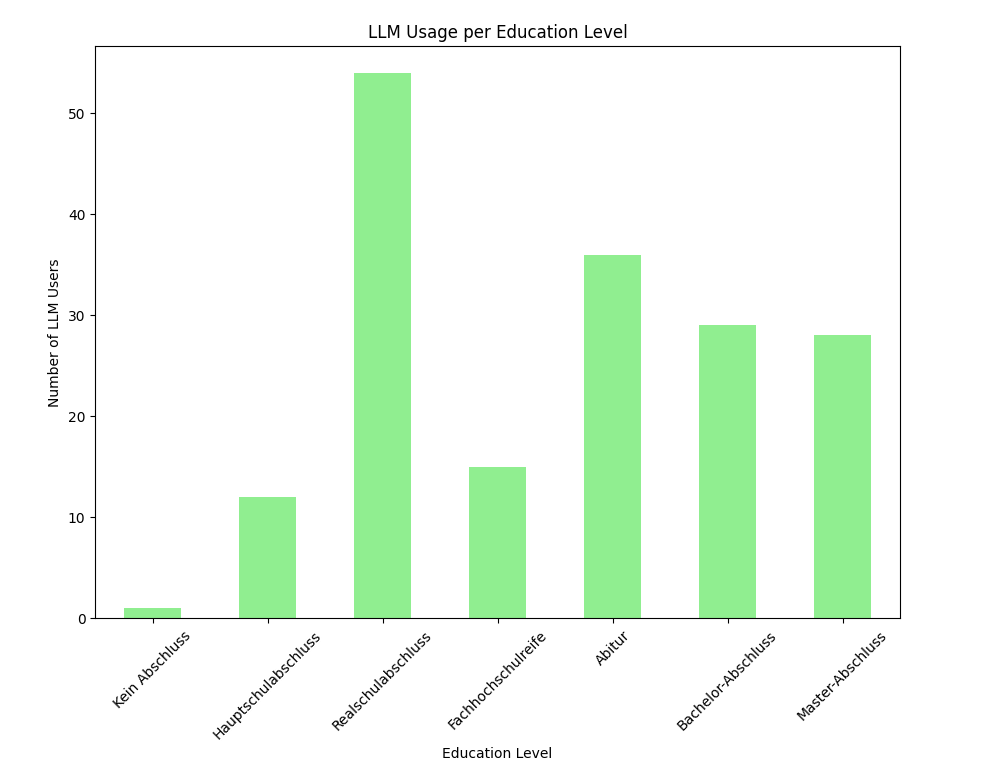
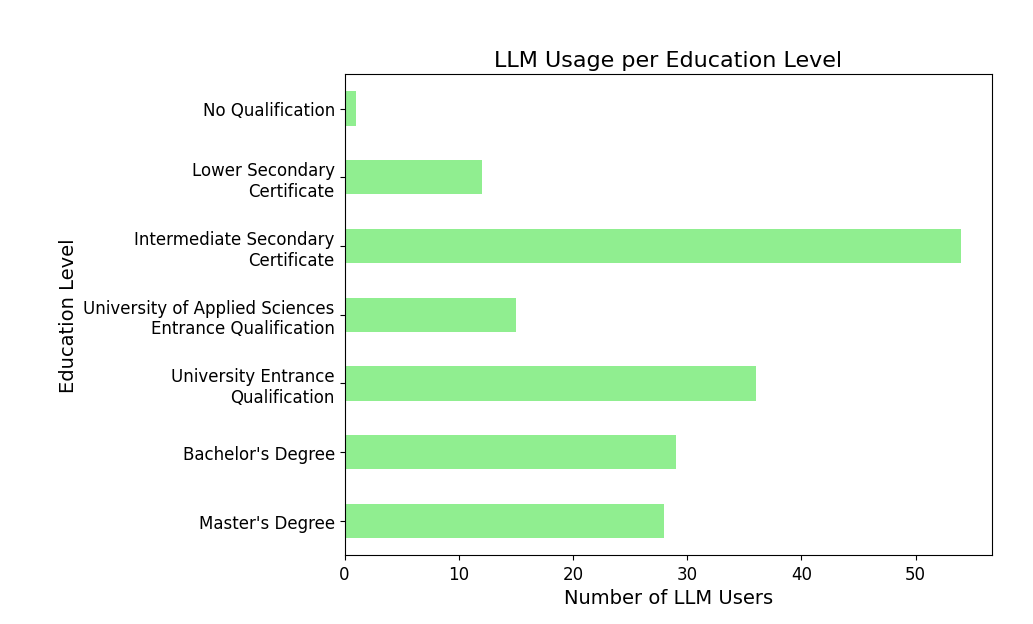
update label size and education diagram orientation

diff --git a/diagrams/education_llm_usage.py b/diagrams/education_llm_usage.py
@@ -12,20 +12,27 @@ df = pd.read_sql("SELECT * FROM data_project", conn)
 # --- FILTER ---
 df = df[(df['used_llm'] != 0) & (df['quota'] != 0)]
 
-# --- PLOT: LLM usage per schooling ---
-school_counts = df.groupby('schooling')['used_llm'].sum()
-
-schooling_order = ["Kein Abschluss", "Hauptschulabschluss", "Realschulabschluss", "Fachhochschulreife", "Abitur", "Bachelor-Abschluss", "Master-Abschluss"]
-
-school_counts = school_counts.reindex(schooling_order)
-school_counts.plot(kind='bar', figsize=(10,6), color='lightgreen')
-plt.xlabel("Education Level")
-plt.ylabel("Number of LLM Users")
-plt.title("LLM Usage per Education Level")
-plt.xticks(rotation=45)
-plt.show()
-
 # --- LABEL MAPPINGS ---
+schooling_order = [
+    "Kein Abschluss",
+    "Hauptschulabschluss",
+    "Realschulabschluss",
+    "Fachhochschulreife",
+    "Abitur",
+    "Bachelor-Abschluss",
+    "Master-Abschluss"
+]
+
+schooling_labels = {
+    "Kein Abschluss":        "No Qualification",
+    "Hauptschulabschluss":   "Lower Secondary\nCertificate",
+    "Realschulabschluss":    "Intermediate Secondary\nCertificate",
+    "Fachhochschulreife":    "University of Applied Sciences\nEntrance Qualification",
+    "Abitur":                "University Entrance\nQualification",
+    "Bachelor-Abschluss":    "Bachelor's Degree",
+    "Master-Abschluss":      "Master's Degree"
+}
+
 employment_role_labels = {
     "employment_role_ceo": "CEO / Executive",
     "employment_role_management": "Management / Executive",
@@ -73,7 +80,21 @@ sector_labels = {
     "sector_other": "Other"
 }
 
-# --- GET EMPLOYMENT ROLE COLUMNS ---
+# --- PLOT: LLM usage per schooling ---
+school_counts = df.groupby('schooling')['used_llm'].sum()
+school_counts = school_counts.reindex(schooling_order)
+school_counts.index = school_counts.index.map(lambda x: schooling_labels.get(x, x))
+
+school_counts.plot(kind='barh', figsize=(12,8), color='lightgreen')
+plt.ylabel("Education Level", fontsize=14)
+plt.xlabel("Number of LLM Users", fontsize=14)
+plt.title("LLM Usage per Education Level", fontsize=16)
+plt.xticks(fontsize=12)
+plt.yticks(fontsize=12)
+plt.gca().invert_yaxis()
+plt.show()
+
+# --- PLOT: LLM usage by employment role ---
 roles = [col for col in df.columns if col.startswith('employment_role_')]
 for col in roles:
     df[col] = pd.to_numeric(df[col], errors='coerce').fillna(0).astype(int)
@@ -89,15 +110,18 @@ plt.yticks(fontsize=12)
 plt.gca().invert_yaxis()
 plt.show()
 
-# --- GET SECTOR COLUMNS ---
+# --- PLOT: LLM usage by sector ---
 sectors = [col for col in df.columns if col.startswith('sector_')]
 for col in sectors:
     df[col] = pd.to_numeric(df[col], errors='coerce').fillna(0).astype(int)
 
-sector_counts = df[sectors].sum().sort_values(ascending=True)
+sector_counts = df[sectors].sum().sort_values(ascending=False)
 sector_counts.index = sector_counts.index.map(lambda x: sector_labels.get(x, x))
 
 sector_counts.plot(kind='barh', figsize=(12,8), color='orchid')
-plt.xlabel("Number of LLM Users")
-plt.title("LLM Usage by Sector")
+plt.xlabel("Number of LLM Users", fontsize=14)
+plt.title("LLM Usage by Sector", fontsize=16)
+plt.xticks(fontsize=12)
+plt.yticks(fontsize=12)
+plt.gca().invert_yaxis()
 plt.show()
